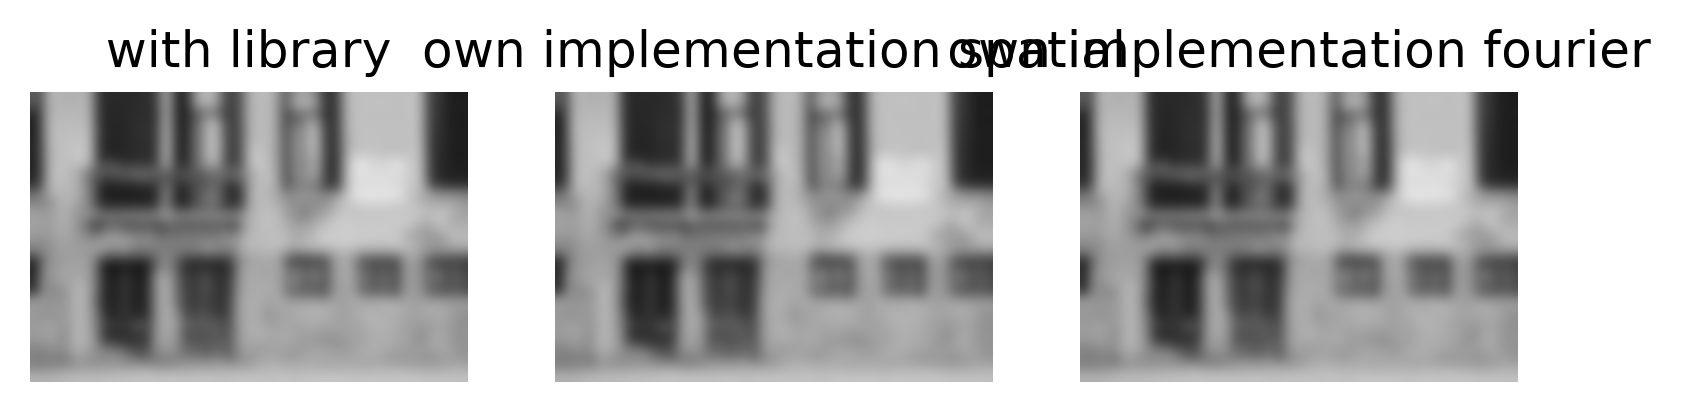
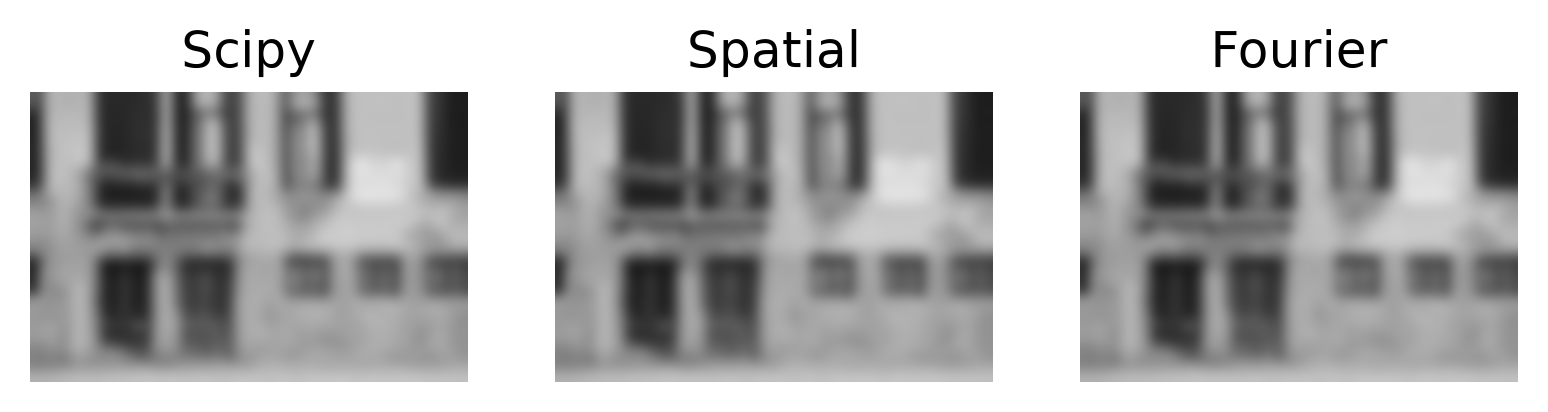
update gaussian filter

diff --git a/src/gaussian_filter.py b/src/gaussian_filter.py
@@ -88,17 +88,17 @@ if __name__ == "__main__":
 
     plt.subplot(1, 3, 1)
     plt.imshow(img_filtered, cmap="gray")
-    plt.title("with library")
+    plt.title("Scipy")
     plt.axis("off")
 
     plt.subplot(1, 3, 2)
     plt.imshow(result_spatial, cmap="gray")
-    plt.title("own implementation spatial")
+    plt.title("Spatial")
     plt.axis("off")
 
     plt.subplot(1, 3, 3)
     plt.imshow(result_fourier, cmap="gray")
-    plt.title("own implementation fourier")
+    plt.title("Fourier")
     plt.axis("off")
 
     if args.output:

diff --git a/README.md b/README.md
@@ -272,15 +272,6 @@ Run all checks manually with:
 ```bash
 pre-commit run --all-files
 ```
-
-## Image Note
-
-No input image is included in this repository.
-
-Use your own image for experimentation. If you publish your own image with this repository, make sure that the image license allows public sharing.
-
-The example output images in `assets/` are generated results from running the scripts.
-
 ## Purpose
 
 This repository is mainly for learning and experimenting with image processing concepts in Python.
